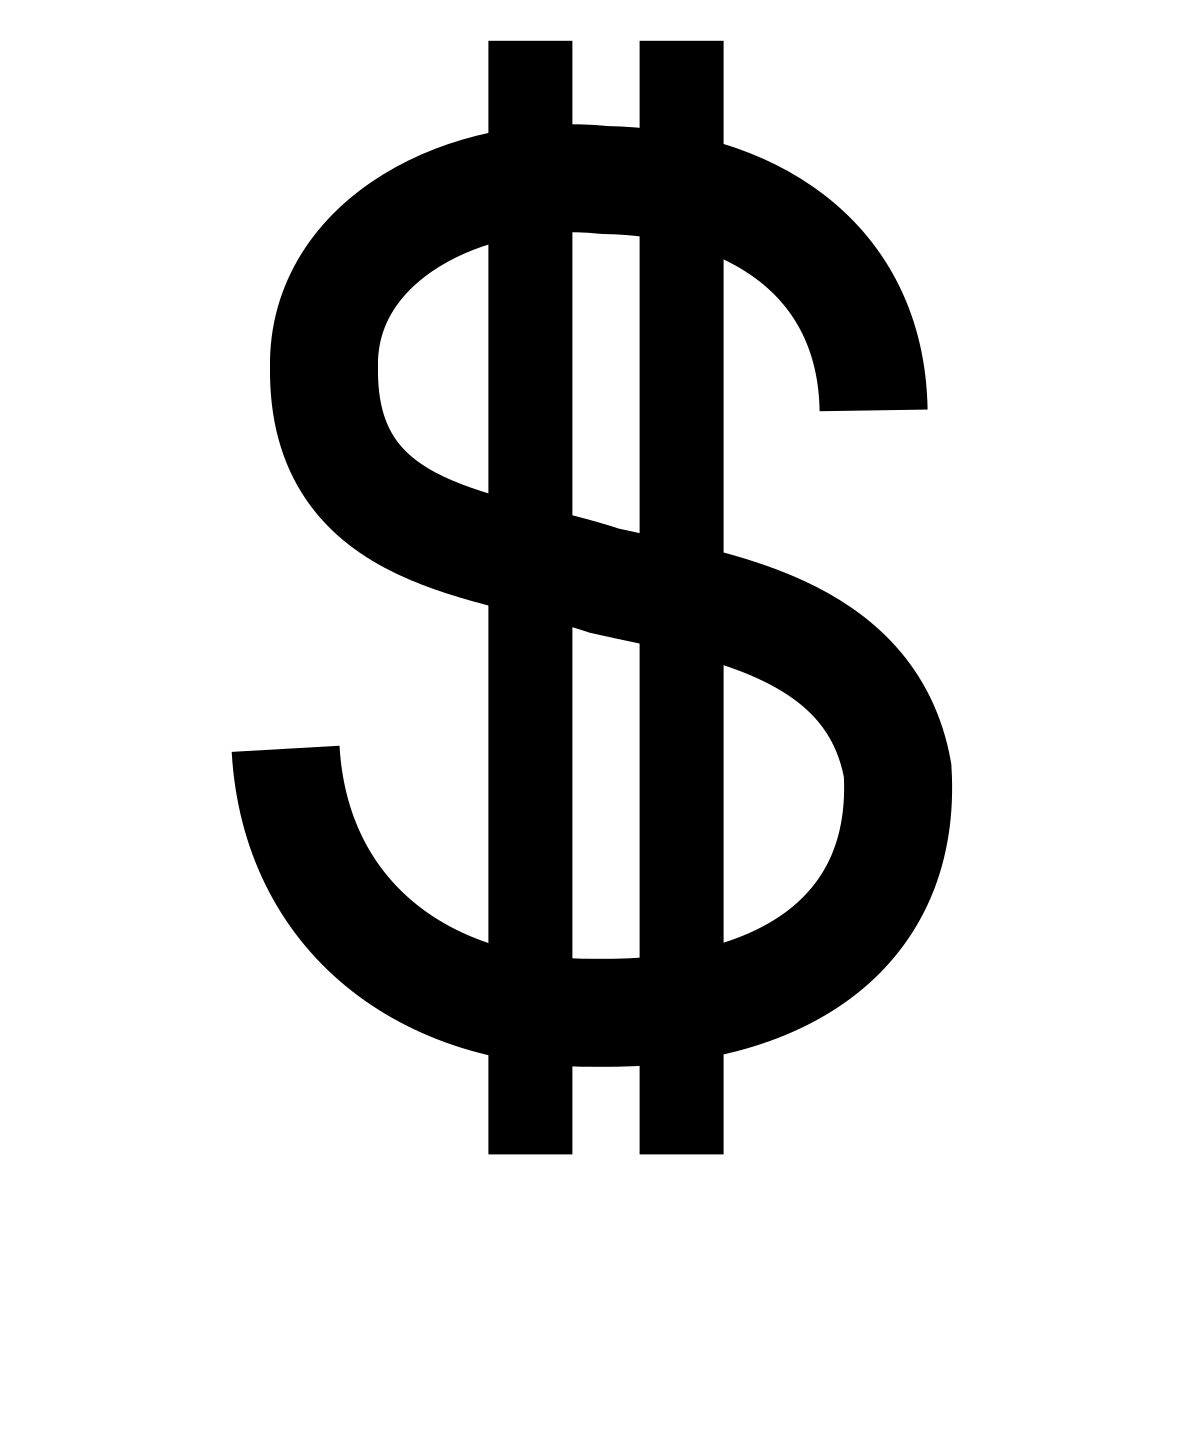
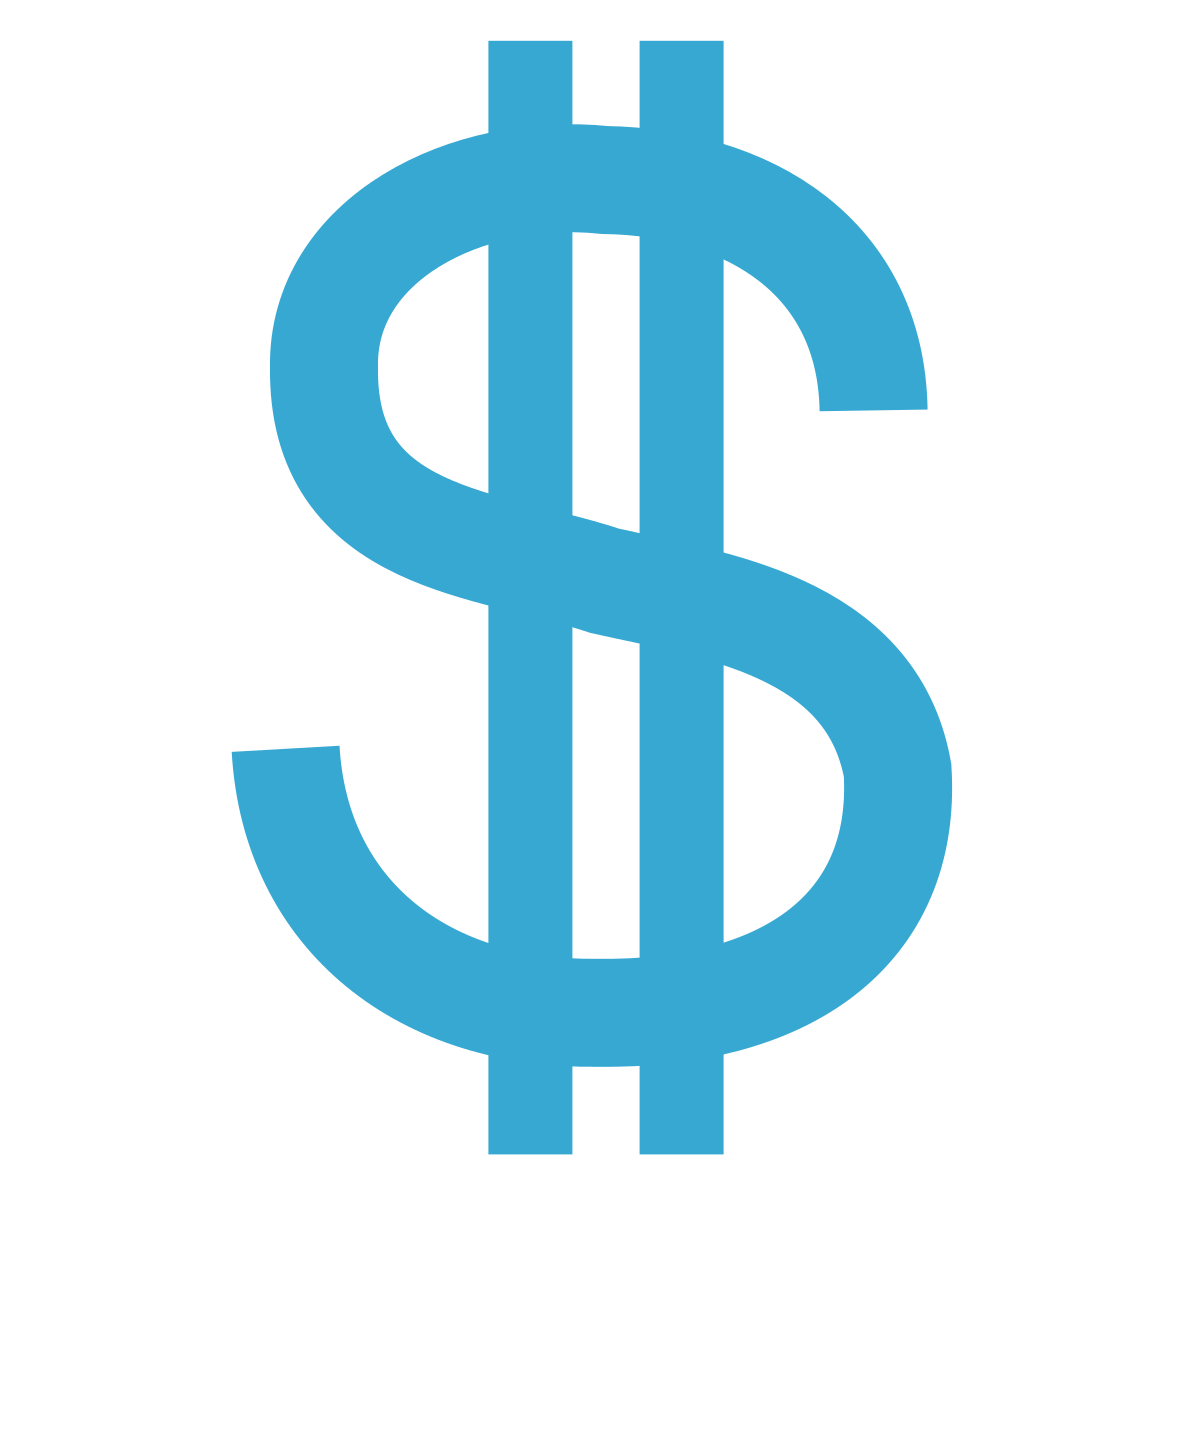
Bilder in Blau umgewandelt und hinzugefügt

Changed region(s): [[0.185, 0.0, 0.8017, 0.8125]]

diff --git a/src/MainWindow.xaml b/src/MainWindow.xaml
@@ -49,7 +49,7 @@
                 </RadioButton>
                 <RadioButton x:Name="rbtnGraph" Margin="10" GroupName="GroupMenu" Checked="rbtnGraph_Checked">
                     <StackPanel Orientation="Horizontal">
-                        <Image />
+                        <Image Source="Images/Diagramm_img.png" Width="20" Margin="0, 0,10 , 0"/>
                         <TextBlock Text="Diagramm" VerticalAlignment="Center"/>
                     </StackPanel>
                 </RadioButton>
@@ -57,14 +57,14 @@
                 
                 <RadioButton x:Name="rbtnCurrency" Margin="10" GroupName="GroupMenu" Checked="rbtnCurrency_Checked">
                     <StackPanel Orientation="Horizontal">
-                        <Image />
+                        <Image Source="Images/Currency_img.png"  Width="20" Margin="0, 0,10 , 0"/>
                         <TextBlock Text="Währungsrechner" VerticalAlignment="Center"/>
                     </StackPanel>
                 </RadioButton>
 
                 <RadioButton x:Name="rbtnLength" Margin="10" GroupName="GroupMenu" Checked="rbtnLength_Checked">
                     <StackPanel Orientation="Horizontal">
-                        <Image />
+                        <Image Source="Images/Ruler_img.png"  Width="20" Margin="0, 0,10 , 0"/>
                         <TextBlock Text="Längenrechner" VerticalAlignment="Center"/>
                     </StackPanel>
                 </RadioButton>
@@ -72,7 +72,7 @@
                 <Label Content="Statistik" VerticalAlignment="Center" HorizontalAlignment="Left" FontSize="15" Foreground="Gray" Margin="5 10 0 0"/>
                 <RadioButton x:Name="rbtnCurrencyComparison" Margin="10" GroupName="GroupMenu" Checked="rbtnCurrencyComparison_Checked">
                     <StackPanel Orientation="Horizontal">
-                        <Image />
+                        <Image Source="Images/Comparison.png"  Width="20" Margin="0, 0,10 , 0"/>
                         <TextBlock Text="Währungsvergleich" VerticalAlignment="Center"/>
                     </StackPanel>
                 </RadioButton>
